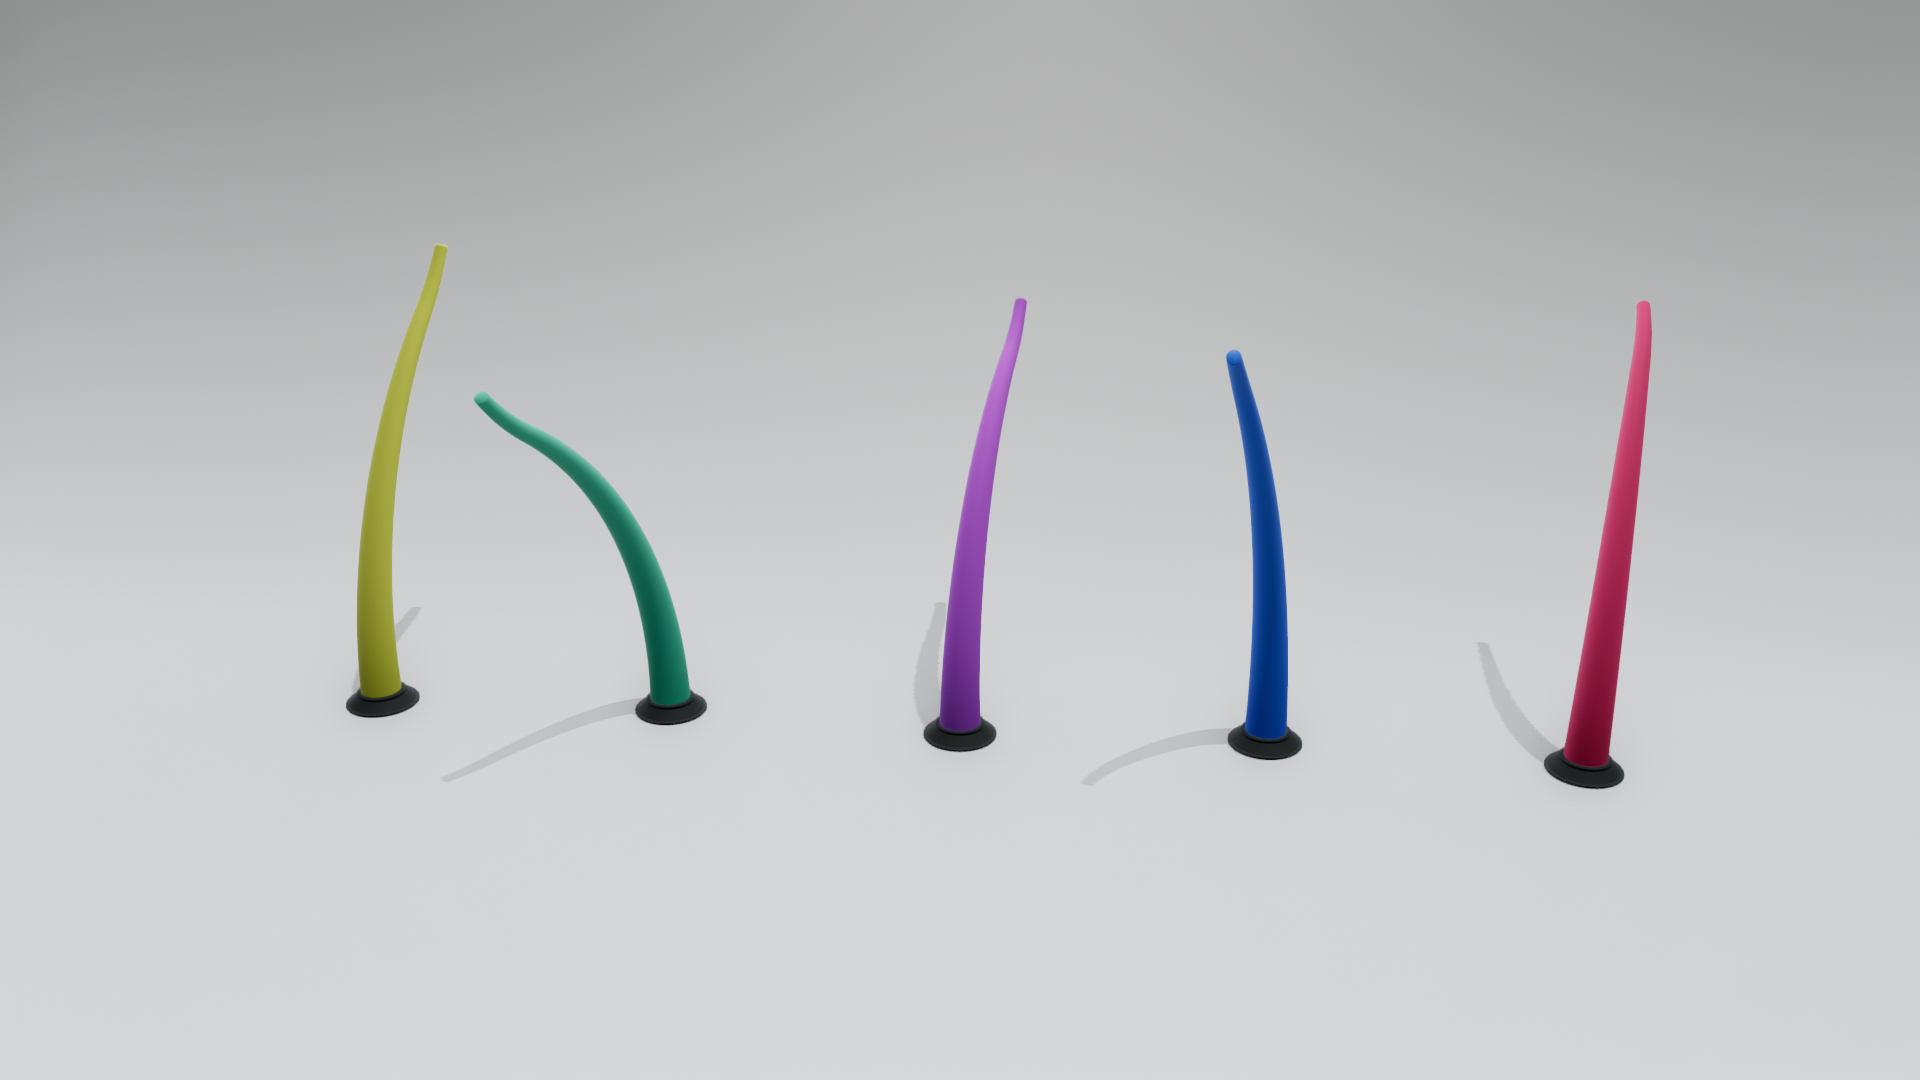
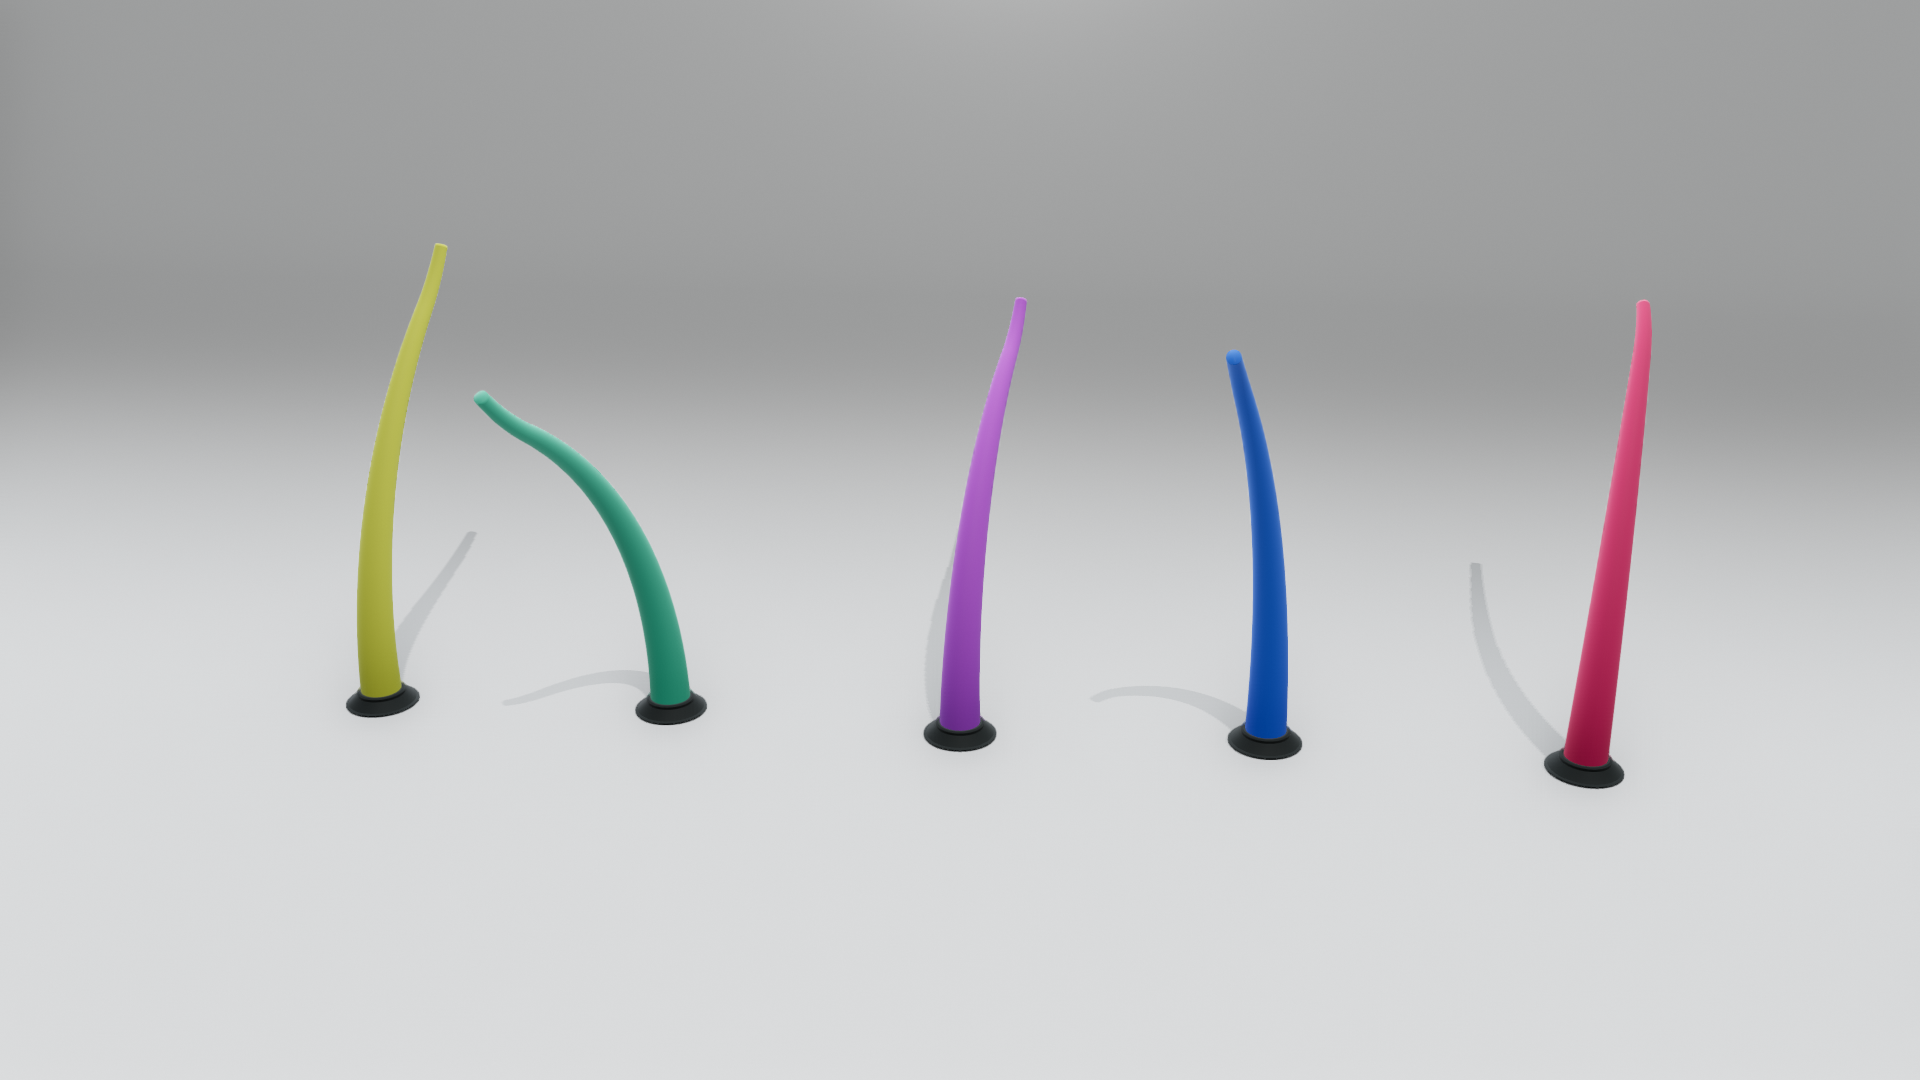
Refine neutral studio backdrop and lighting

diff --git a/src/soromox/rendering/config/scene.py b/src/soromox/rendering/config/scene.py
@@ -237,7 +237,12 @@ class BackdropConfig:
         width: Width as a multiple of scene extent.
         depth: Forward floor reach as a multiple of scene extent.
         height: Wall height as a multiple of scene extent.
-        radius: Floor-to-wall bend radius as a multiple of scene extent.
+        radius: Horizontal bend reach as a multiple of scene extent. With
+            vertical_radius=None and curvature_easing=0, this is a circular radius.
+        vertical_radius: Bend height in scene extents; None uses radius.
+        curvature_easing: Gradual change of tangent angle near the floor/wall
+            joins, in [0, 1]. Zero gives an elliptical arc; one gives zero
+            curvature at both joins. Intermediate values blend these profiles.
         wall_offset: Distance behind scene center before the bend, in scene extents.
     """
 
@@ -247,6 +252,8 @@ class BackdropConfig:
     height: float = 2.5
     radius: float = 0.5
     wall_offset: float = 0.42
+    vertical_radius: float | None = None
+    curvature_easing: float = 0.0
 
     def __post_init__(self) -> None:
         """Validate positive backdrop dimensions.
@@ -261,6 +268,25 @@ class BackdropConfig:
             value = getattr(self, name)
             if not np.isfinite(value) or value <= 0:
                 raise ValueError(f"{name} must be finite and positive")
+
+        if self.vertical_radius is not None and (
+            not np.isfinite(self.vertical_radius)
+            or not 0 < self.vertical_radius <= self.height
+        ):
+            raise ValueError(
+                "vertical_radius must be positive and no greater than height"
+            )
+        if (
+            not np.isfinite(self.curvature_easing)
+            or not 0 <= self.curvature_easing <= 1
+        ):
+            raise ValueError("curvature_easing must lie in [0, 1]")
+        if (
+            self.curvature_easing > 0
+            and self.vertical_radius is None
+            and self.radius > self.height
+        ):
+            raise ValueError("The eased bend height must not exceed the wall height")
 
 
 @dataclass
@@ -406,22 +432,24 @@ class SceneConfig:
             "dark": (0.045, 0.05, 0.065),
         }[style]
         key = {"neutral": 70000, "bright": 85000, "dark": 100000}[style]
-        ambient = {"neutral": 0.8, "bright": 1.2, "dark": 0.4}[style]
+        ambient = {"neutral": 1.05, "bright": 1.2, "dark": 0.4}[style]
         lights = [
             DirectionalLightConfig(
                 illuminance_lux=key,
                 color=(1.0, 1.0, 1.0),
-                direction=(-0.25, 0.9, -0.55)
-                if style == "dark"
-                else (-0.25, 0.15, -1.0),
+                direction={
+                    "neutral": (-0.25, 0.55, -1.0),
+                    "bright": (-0.25, 0.15, -1.0),
+                    "dark": (-0.25, 0.9, -0.55),
+                }[style],
             ),
             PointLightConfig.from_lumens(
-                {"neutral": 250000, "bright": 400000, "dark": 300000}[style] * scale**2,
+                {"neutral": 212500, "bright": 400000, "dark": 300000}[style] * scale**2,
                 position=tuple(np.array([0.0, -0.8, 0.8]) * scale),
                 range_m=6.0 * scale,
             ),
             PointLightConfig.from_lumens(
-                {"neutral": 150000, "bright": 250000, "dark": 250000}[style] * scale**2,
+                {"neutral": 112500, "bright": 250000, "dark": 250000}[style] * scale**2,
                 position=tuple(
                     np.array([0.0, 0.4, 0.75] if style != "dark" else [0.8, 0.35, 0.75])
                     * scale
@@ -434,7 +462,15 @@ class SceneConfig:
             cls(
                 background=color,
                 ground=GroundPlaneConfig(color=color, grid=False, surface=True),
-                backdrop=BackdropConfig(enabled=True, wall_offset=0.15, radius=0.7),
+                backdrop=BackdropConfig(
+                    enabled=True,
+                    radius=0.40,
+                    vertical_radius=0.23,
+                    wall_offset=0.02,
+                    curvature_easing=0.80,
+                )
+                if style == "neutral"
+                else BackdropConfig(enabled=True, wall_offset=0.15, radius=0.7),
                 ambient=AmbientLightConfig(strength=ambient),
                 lights=tuple(lights),
                 shadows=True,

diff --git a/src/soromox/rendering/scenery.py b/src/soromox/rendering/scenery.py
@@ -52,6 +52,54 @@ def plane_basis(normal):
     return np.column_stack((u, np.cross(n, u), n))
 
 
+def _eased_backdrop_profile(config) -> np.ndarray:
+    """Sample a bend with independent reach, height and curvature easing.
+
+    Args:
+        config: Validated BackdropConfig. All lengths are in scene extents.
+
+    Returns:
+        Array of (depth, height) coordinates, including a flat floor and wall.
+        Tangents meet the floor and wall continuously. Flat sections use similar
+        spacing near the bend to avoid bias in computed vertex normals.
+    """
+    vertical = (
+        config.radius if config.vertical_radius is None else config.vertical_radius
+    )
+    t = np.linspace(0, 1, 257)
+    theta = (
+        np.pi / 2 * (t - config.curvature_easing * np.sin(2 * np.pi * t) / (2 * np.pi))
+    )
+    tangent = np.stack((np.cos(theta), np.sin(theta)), axis=-1)
+    curve = np.vstack(
+        (np.zeros(2), np.cumsum((tangent[:-1] + tangent[1:]) / 2, axis=0))
+    )
+    curve *= np.array([config.radius, vertical]) / curve[-1]
+    curve[:, 0] += config.wall_offset
+    step = np.linalg.norm(np.diff(curve, axis=0), axis=1).mean()
+    # Bound scenery memory for unusually large floor/wall dimensions.
+    floor_steps = int(
+        np.clip(np.ceil((config.depth + config.wall_offset) / step), 1, 4096)
+    )
+    wall_steps = int(np.clip(np.ceil((config.height - vertical) / step), 1, 4096))
+    floor_y = np.linspace(-config.depth, config.wall_offset, floor_steps + 1)
+    wall_z = np.linspace(vertical, config.height, wall_steps + 1)
+    wall = (
+        np.column_stack(
+            (np.full(wall_steps, config.wall_offset + config.radius), wall_z[1:])
+        )
+        if config.height > vertical
+        else np.empty((0, 2))
+    )
+    return np.vstack(
+        (
+            np.column_stack((floor_y[:-1], np.zeros(floor_steps))),
+            curve,
+            wall,
+        )
+    )
+
+
 def backdrop_mesh(scene: SceneConfig, center, extent, normal):
     """Build a curved floor/wall from shared dimensions and floor orientation.
 
@@ -68,15 +116,18 @@ def backdrop_mesh(scene: SceneConfig, center, extent, normal):
     basis = plane_basis(normal)
     n = basis[:, 2]
     origin = np.asarray(center) - np.dot(center, n) * n + scene.ground.height * n
-    angles = np.linspace(0, np.pi / 2, 80)
-    profile = [(-cfg.depth, 0), (cfg.wall_offset, 0)]
-    profile.extend(
-        zip(
-            cfg.wall_offset + cfg.radius * np.sin(angles[1:]),
-            cfg.radius * (1 - np.cos(angles[1:])),
+    if cfg.vertical_radius is None and cfg.curvature_easing == 0:
+        angles = np.linspace(0, np.pi / 2, 80)
+        profile = [(-cfg.depth, 0), (cfg.wall_offset, 0)]
+        profile.extend(
+            zip(
+                cfg.wall_offset + cfg.radius * np.sin(angles[1:]),
+                cfg.radius * (1 - np.cos(angles[1:])),
+            )
         )
-    )
-    profile.append((cfg.wall_offset + cfg.radius, cfg.height))
+        profile.append((cfg.wall_offset + cfg.radius, cfg.height))
+    else:
+        profile = _eased_backdrop_profile(cfg)
     vertices = np.array(
         [[x, y, z] for y, z in profile for x in (-cfg.width / 2, cfg.width / 2)]
     )

diff --git a/tests/rendering/test_renderer_config.py b/tests/rendering/test_renderer_config.py
@@ -10,6 +10,7 @@ from numpy.testing import assert_allclose
 from test_base_renderer import DummyPlanarRobot
 
 from soromox.rendering import (
+    BackdropConfig,
     CameraConfig,
     GeometryConfig,
     GroundPlaneConfig,
@@ -445,3 +446,68 @@ def test_technical_tone_mapping_preserves_white_without_changing_studio_defaults
     assert SceneConfig.technical().tone_mapping == "linear"
     assert SceneConfig.technical(tone_mapping="aces").tone_mapping == "aces"
     assert SceneConfig.studio().tone_mapping == "backend-default"
+
+
+@pytest.mark.parametrize("normal", [[0, 0, 1], [0, 1, 0], [1, 2, 3]])
+def test_eased_backdrop_dimensions_orientation_and_smooth_joins(normal):
+    """Preserve world floor height, bend dimensions and continuous join tangents."""
+    scene = SceneConfig.studio()
+    scene.ground.height = 0.17
+    center, extent = np.array([0.4, -0.2, 0.3]), 2.0
+    vertices, faces = backdrop_mesh(scene, center, extent, normal)
+    basis = plane_basis(normal)
+    origin = center - (center @ basis[:, 2]) * basis[:, 2] + 0.17 * basis[:, 2]
+    local = (vertices - origin) @ basis / extent
+    profile = local[::2, 1:]
+    assert_allclose([local[:, 0].min(), local[:, 0].max()], [-2.5, 2.5])
+    assert_allclose(profile[0], [-2.5, 0], atol=1e-14)
+    assert_allclose(profile[-1], [0.42, 2.5])
+    assert np.all(np.diff(profile, axis=0) >= -1e-14)
+    start = np.argmin(np.linalg.norm(profile - [0.02, 0], axis=1))
+    end = start + 256
+    assert_allclose(profile[end], [0.42, 0.23])
+    slope_start = profile[start + 1] - profile[start]
+    slope_end = profile[end] - profile[end - 1]
+    assert abs(slope_start[1] / slope_start[0]) < 0.002
+    assert abs(slope_end[0] / slope_end[1]) < 0.002
+    triangles = vertices[faces]
+    assert np.all(
+        np.linalg.norm(
+            np.cross(
+                triangles[:, 1] - triangles[:, 0], triangles[:, 2] - triangles[:, 0]
+            ),
+            axis=1,
+        )
+        > 0
+    )
+
+
+@pytest.mark.parametrize(
+    "kwargs",
+    [
+        {"vertical_radius": 0},
+        {"vertical_radius": float("nan")},
+        {"vertical_radius": 3},
+        {"curvature_easing": -0.1},
+        {"curvature_easing": 1.1},
+        {"curvature_easing": float("nan")},
+        {"radius": 3, "curvature_easing": 1},
+    ],
+)
+def test_backdrop_rejects_invalid_eased_dimensions(kwargs):
+    with pytest.raises(ValueError):
+        BackdropConfig(**kwargs)
+
+
+def test_neutral_studio_and_clay_have_independent_lighting_and_backdrops():
+    neutral, clay = SceneConfig.studio(), RendererConfig.clay().scene
+    assert neutral.backdrop.vertical_radius == 0.23
+    assert neutral.backdrop.curvature_easing == 0.8
+    assert neutral.ambient.strength == 1.05
+    assert_allclose(neutral.lights[0].direction, [-0.25, 0.55, -1])
+    assert neutral.lights[1].intensity_candela == pytest.approx(212500 / (4 * np.pi))
+    assert neutral.lights[2].intensity_candela == pytest.approx(112500 / (4 * np.pi))
+    assert clay.backdrop.radius == 0.7
+    assert clay.backdrop.vertical_radius is None
+    assert clay.ambient.strength == 0.8
+    assert clay.lights[1].intensity_candela == pytest.approx(250000 / (4 * np.pi))

diff --git a/src/soromox/rendering/config/renderer.py b/src/soromox/rendering/config/renderer.py
@@ -16,6 +16,11 @@ from soromox.rendering.config.colors import (
 )
 from soromox.rendering.config.output import RenderOutputConfig
 from soromox.rendering.config.scene import (
+    AmbientLightConfig,
+    BackdropConfig,
+    DirectionalLightConfig,
+    GroundPlaneConfig,
+    MaterialConfig,
     PointLightConfig,
     SceneConfig,
 )
@@ -134,15 +139,37 @@ class RendererConfig:
             ValueError: Color or scene extent is invalid.
         """
         _validate_vector(color, "color", color=True)
-        scene = SceneConfig.studio(scene_extent=scene_extent)
-        scene.material.roughness = 0.9
+        if not np.isfinite(scene_extent) or scene_extent <= 0:
+            raise ValueError("scene_extent must be finite and positive")
         scale = scene_extent / 1.2
-        scene.lights += (
-            PointLightConfig.from_lumens(
-                100000 * scale**2,
-                position=tuple(np.array([0.7, 0.4, 0.6]) * scale),
-                range_m=6.0 * scale,
-                color=(0.85, 0.92, 1.0),
+        # Clay owns its lighting and scenery independently of the neutral studio.
+        scene = SceneConfig(
+            background=(0.58, 0.58, 0.58),
+            ground=GroundPlaneConfig(color=(0.58, 0.58, 0.58), grid=False),
+            backdrop=BackdropConfig(enabled=True, radius=0.7, wall_offset=0.15),
+            ambient=AmbientLightConfig(strength=0.8),
+            material=MaterialConfig(roughness=0.9),
+            shadows=True,
+            ambient_occlusion=True,
+            lights=(
+                DirectionalLightConfig(illuminance_lux=70000, color=(1.0, 1.0, 1.0)),
+                PointLightConfig.from_lumens(
+                    250000 * scale**2,
+                    position=tuple(np.array([0.0, -0.8, 0.8]) * scale),
+                    range_m=6.0 * scale,
+                ),
+                PointLightConfig.from_lumens(
+                    150000 * scale**2,
+                    position=tuple(np.array([0.0, 0.4, 0.75]) * scale),
+                    range_m=6.0 * scale,
+                    color=(1.0, 1.0, 1.0),
+                ),
+                PointLightConfig.from_lumens(
+                    100000 * scale**2,
+                    position=tuple(np.array([0.7, 0.4, 0.6]) * scale),
+                    range_m=6.0 * scale,
+                    color=(0.85, 0.92, 1.0),
+                ),
             ),
         )
         colors = RendererColorConfig(

diff --git a/docs/api/rendering/configuration.md b/docs/api/rendering/configuration.md
@@ -116,6 +116,26 @@ with its tangent. Automatic sizing fits the whole robot trajectory and helper
 bounds. Scenery is excluded from camera fitting. Live visualization retains its
 initial bounds. A curved backdrop replaces the separate flat floor and grid.
 
+`BackdropConfig.radius` controls the bend's horizontal reach;
+`vertical_radius` controls its height and defaults to the same value.
+`curvature_easing` ranges from 0 (an elliptical arc) to 1 (a curve that gradually
+flattens into the floor and wall). `wall_offset` places the start of the bend
+behind the scene center. These dimensions are multiples of the fitted scene extent.
+
+The neutral studio uses a lower, softly shaded transition:
+
+```python
+scene = SceneConfig.studio()
+scene.backdrop.radius = 0.40
+scene.backdrop.vertical_radius = 0.23
+scene.backdrop.wall_offset = 0.02
+scene.backdrop.curvature_easing = 0.80
+```
+
+Its key light illuminates both the floor and wall, with ambient illumination and
+point fills reducing the contrast across the bend. Bright, dark and clay use
+circular backdrop curves and their own lighting settings.
+
 ## Camera configuration
 
 The `CameraConfig` class provides unified camera configuration across renderers (Matplotlib, Open3D, Viser).

diff --git a/docs/development/changelog.md b/docs/development/changelog.md
@@ -17,9 +17,10 @@ and include benchmark baseline and measurement context for performance claims.
   `OperationalSpaceImpedanceControlTracker` and balanced antagonistic pressure
   inputs to track a base-parallel circle.
 - Added shared scene settings for lighting, materials, shadows, ground planes and
-  curved backdrops, with technical, neutral/bright/dark studio, flat and clay
-  presets and an Open3D/Viser tentacle gallery. Shared robot mounts include disk,
-  beveled disk, truncated cone and flared collar shapes, selected with
+  curved backdrops with adjustable bend height and curvature easing. Technical,
+  neutral/bright/dark studio, flat and clay presets include an Open3D/Viser
+  tentacle gallery. Shared robot mounts include disk, beveled disk, truncated
+  cone and flared collar shapes, selected with
   `config.geometry.base_plate_style`.
 - Added reproducible Open3D development builds for macOS and Linux x86-64,
   including Metal image capture, neutral color grading and selectable linear/ACES

diff --git a/examples/rendering/README.md b/examples/rendering/README.md
@@ -54,7 +54,11 @@ The technical preset displays a world grid without a filled ground slab. Set
 `config.scene.ground.surface = True` to add the surface. Grid spacing is in
 metres, with major lines every five cells by default. Studio presets use a curved
 backdrop, one directional key and point-light fills. Viser uses hemisphere
-illumination to approximate Open3D's environment lighting.
+illumination to approximate Open3D's environment lighting. The neutral studio
+uses a low, eased sweep (`radius=0.40`, `vertical_radius=0.23`,
+`wall_offset=0.02`, `curvature_easing=0.80`) with lighting that keeps the
+floor-to-wall transition soft and visible. Both example commands resolve these
+settings through `SceneConfig.studio()`; no manual scene setup is needed.
 
 Static Viser capture supplies the camera pose explicitly and waits for stable
 images while the browser loads its meshes. The patched Open3D build uses Filmic

diff --git a/docs/api/rendering/presets.md b/docs/api/rendering/presets.md
@@ -52,7 +52,7 @@ Both use a grid without a filled slab, anchored to world coordinates with major/
 
 </div>
 
-A broader curved sweep, neutral key light and point fills give both scenes a light grey floor and darker wall. Viser approximates environment illumination with a hemisphere light, improving the wall/floor transition. Open3D still has a stronger gradient and sharper contact/cast shadows. The reference's reflective bands and area-light reflections are outside the matte target.
+A low sweep with gradually changing curvature creates a soft, visible floor-to-wall transition. The key light illuminates both surfaces, reducing the contrast of the horizontal band. Open3D retains stronger cast shadows; Viser has a subtler background transition. The reference's reflective bands and area-light reflections are outside the matte target.
 
 ## Bright
 
